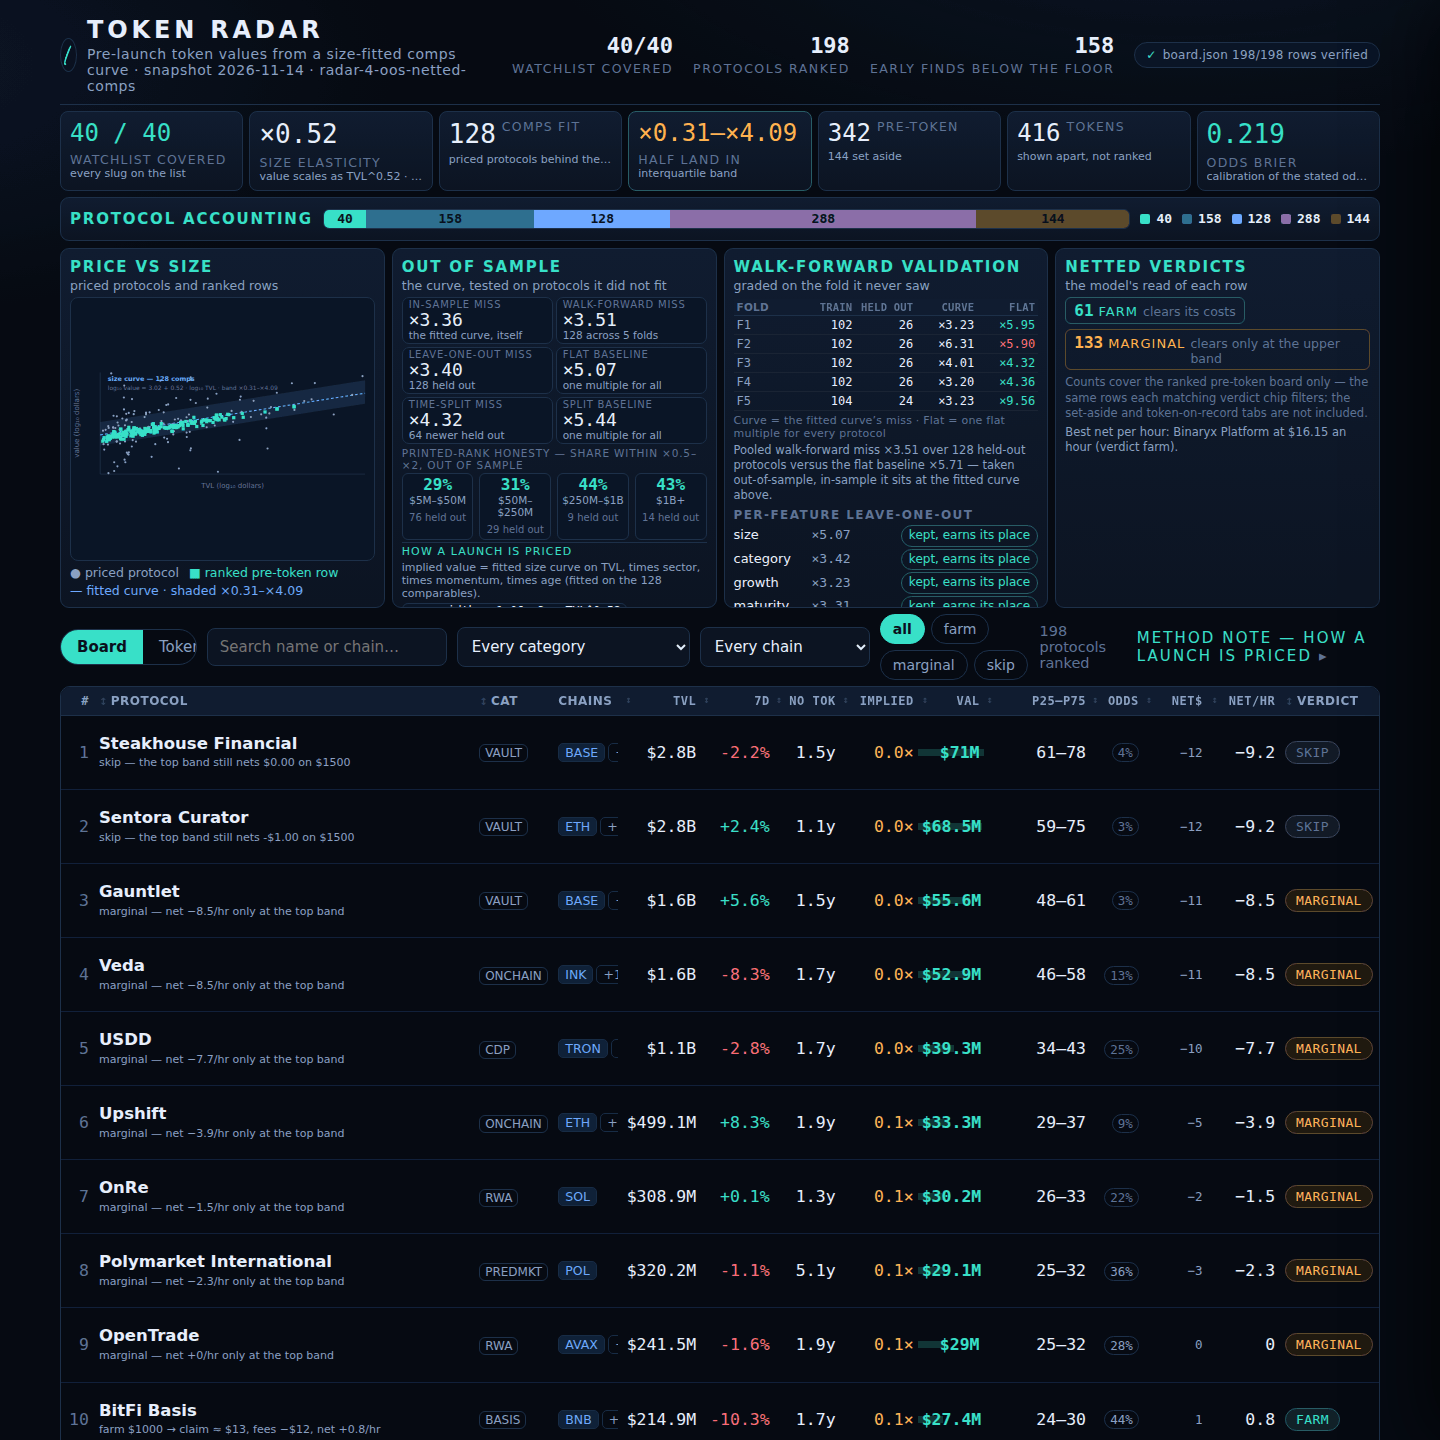
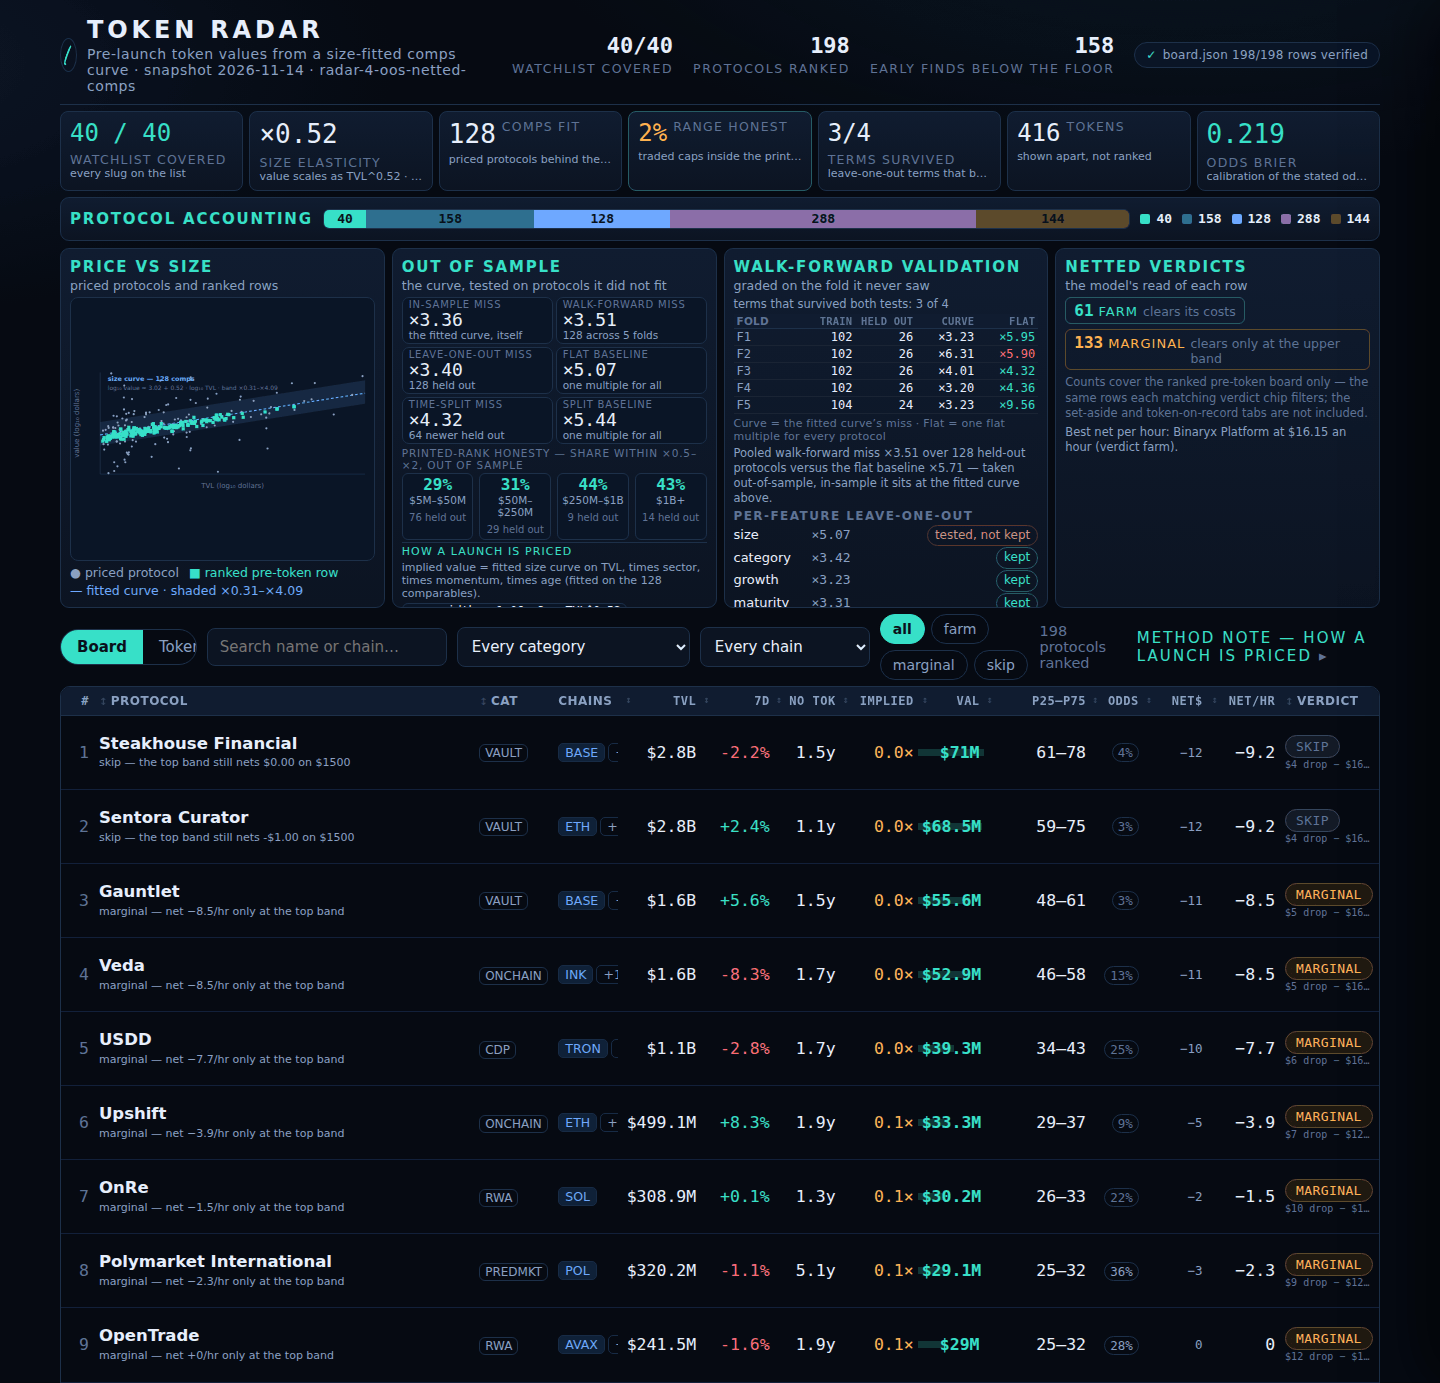
fix21: per-term kept/tested-not-kept badges, range-honesty line, verdict fee sub-lines, 2 KPI swaps (salvaged from codex timeout, full verify green)

Changed region(s): [[0.0312, 0.0, 0.9688, 1.0], [0.0625, 0.2487, 0.25, 0.342]]

diff --git a/dashboard/app.js b/dashboard/app.js
@@ -62,6 +62,18 @@
     var sX = trimZeroX(Math.abs(nX));
     return (nX < 0 ? '\u2212' : '') + sX;
   }
+  // The VERDICT cell's fee arithmetic, worked from the row's own netting numbers: the modelled airdrop drop
+  // (`alloc_usd`) minus the fees the plan pays (`est_gas_usd`), which together are exactly what nets to
+  // `net_usd`. Rounded whole dollars keep it short enough to sit under the badge; a row missing either figure
+  // returns null so the cell prints the badge alone rather than a half-stated subtraction.
+  function feeLineX(rX) {
+    var dropX = rX.alloc_usd, feesX = rX.est_gas_usd;
+    if (dropX === null || dropX === undefined || !isFinite(dropX)) return null;
+    if (feesX === null || feesX === undefined || !isFinite(feesX)) return null;
+    var dropTxtX = '$' + Math.round(dropX).toLocaleString('en-US');
+    var feeTxtX = '$' + Math.round(feesX).toLocaleString('en-US');
+    return dropTxtX + ' drop \u2212 ' + feeTxtX + ' fees';
+  } // c
   // Board TVL: the same magnitude ladder as fmtShortUsdX, so a headline size reads whole in a narrow column.
   function fmtBoardUsd(nX) { return fmtShortUsdX(nX); }
   // A one-place percentage for the board's seven-day growth cell, so "+24.1%" never collapses to "+24.1...".
@@ -276,12 +288,18 @@
   function kpis() {
     var pX = DATAX.pre_token_size, liveX = DATAX.live_size, aside = DATAX.set_aside_size;
     var fitX = 'TVL^' + FITX.elasticity.toFixed(2);
+    // Two cards read straight off the evidence the panels below compute: the share of traded caps that land
+    // inside the model's printed P25–P75 band, and the leave-one-out terms that survived their own test. Cards
+    // keep their slot, size and styling — only the figure and its caption change — so the strip is unchanged.
+    var honorX = rangeHonestyStatsX();
+    var survivedX = termsSurvivedX();
+    var rangeHonestX = honorX && honorX.withinBand !== null ? honorX.withinBand.toFixed(0) + '%' : '—';
     return h('section', { class: 'kpis' },
       kpi(DATAX.watchlist_size + ' / ' + DATAX.watchlist_size, 'watchlist covered', 'every slug on the list', 'ok'),
       kpi('\u00d7' + FITX.elasticity.toFixed(2), 'size elasticity', 'value scales as TVL^' + FITX.elasticity.toFixed(2) + ' \u00b7 held-out miss \u00d7' + (FITX.median_abs_error || 0).toFixed(2), '', true),
       kpi(FITX.comparables, 'comps fit', 'priced protocols behind the curve \u00b7 graded out of sample', '', true),
-      kpi('×' + FITX.err_lo.toFixed(2) + '–×' + FITX.err_hi.toFixed(2), 'half land in', 'interquartile band', 'accent'),
-      kpi(pX, 'pre-token', aside + ' set aside', ''),
+      kpi(rangeHonestX, 'RANGE HONEST', 'traded caps inside the printed P25–P75 band', 'accent'),
+      kpi(survivedX.kept + '/' + survivedX.count, 'TERMS SURVIVED', 'leave-one-out terms that beat their baseline', ''),
       kpi(liveX, 'tokens', 'shown apart, not ranked', ''),
       oddsKpi());
   } // c
@@ -347,6 +365,19 @@
   // Walk-forward panel: five sequential folds the curve never trained on, each graded against a flat
   // multiple, then a per-feature leave-one-out table. A feature is called out as "tested, not kept" when
   // dropping it does not worsen the held-out miss, i.e. it earns nothing.
+  // The term tally is one shared rule for the whole panel: each leave-one-out term is put through both
+  // anchored tests this panel prints — the fitted curve's pooled miss and the flat baseline — and a term is
+  // kept only when its dropped miss is no worse than either. Both anchors are read off the walk-forward
+  // numbers themselves, never retyped, and the surviving count feeds the panel sub-line and the KPI card.
+  function termsSurvivedX() {
+    var wX = FITX.walk_forward || {};
+    var fullX = wX.miss || 0, flatX = wX.flat_miss || 0;
+    var termsX = (FITX.feature_loo || []).map(function (fX) {
+      return { feature: fX.feature, miss: fX.miss, kept: fX.miss <= fullX + 1e-9 && fX.miss <= flatX + 1e-9 };
+    });
+    var keptX = termsX.filter(function (tX) { return tX.kept; }).length;
+    return { terms: termsX, kept: keptX, count: termsX.length };
+  } // c
   function walkCard() {
     var wX = FITX.walk_forward || { folds: [], miss: 0, flat_miss: 0, tested: 0 };
     var rowsX = (wX.folds || []).map(function (fX) {
@@ -359,13 +390,18 @@
     });
     var headX = h('tr', null, h('th', null, 'Fold'), h('th', { class: 'num' }, 'Train'), h('th', { class: 'num' }, 'Held out'),
       h('th', { class: 'num' }, 'Curve'), h('th', { class: 'num' }, 'Flat'));
-    var looX = (FITX.feature_loo || []).map(function (fX) {
+    // Each term row carries its own verdict from the shared rule above: a term is badged "kept" only when
+    // its leave-one-out miss clears both anchored misses the panel prints (the fitted curve's pooled miss and
+    // the flat baseline); otherwise it is "tested, not kept". The same terms back the sub-line and the tally.
+    var survivedX = termsSurvivedX();
+    var looX = survivedX.terms.map(function (tX) {
       return h('div', { class: 'loo-row' },
-        h('span', { class: 'loo-name' }, fX.feature),
-        h('span', { class: 'loo-miss' }, '×' + fX.miss.toFixed(2)),
-        h('span', { class: 'badge ' + (fX.kept ? 'kept' : 'dropped') }, fX.kept ? 'kept, earns its place' : 'tested, not kept'));
+        h('span', { class: 'loo-name' }, tX.feature),
+        h('span', { class: 'loo-miss' }, '×' + tX.miss.toFixed(2)),
+        h('span', { class: 'badge ' + (tX.kept ? 'kept' : 'dropped') }, tX.kept ? 'kept' : 'tested, not kept'));
     });
     return card('Walk-forward validation', 'graded on the fold it never saw',
+      h('p', { class: 'loo-survived' }, 'terms that survived both tests: ' + survivedX.kept + ' of ' + survivedX.count),
       h('div', null,
         h('table', { class: 'walk' }, h('thead', null, headX), h('tbody', null, rowsX)),
         h('div', { class: 'walk-legend' }, 'Curve = the fitted curve\u2019s miss \u00b7 Flat = one flat multiple for every protocol')),
@@ -395,7 +431,10 @@
     x0X -= xpadX; x1 += xpadX; y0 -= ypadX; y1 += ypadX;
     var sxX = function (v) { return padL + (v - x0X) / (x1 - x0X) * (WX - padL - padR); };
     var syX = function (v) { return H - padB - (v - y0) / (y1 - y0) * (H - padT - padB); };
-    var sX = svg('svg', { viewBox: '0 0 ' + WX + ' ' + H, width: '100%', height: 'auto', role: 'img', 'aria-label': 'log-log scatter of market cap versus TVL with the fitted curve' });
+    // No height attribute: an SVG viewport does not accept "auto" and the browser flags it, while the CSS
+    // (.scatter-wrap svg { height: 100% }) already stretches the plot to its frame — so dropping it is a
+    // pixel-for-pixel no-op that clears the one console warning the page used to raise.
+    var sX = svg('svg', { viewBox: '0 0 ' + WX + ' ' + H, width: '100%', role: 'img', 'aria-label': 'log-log scatter of market cap versus TVL with the fitted curve' });
     // axes
     sX.appendChild(svg('line', { x1: padL, y1: H - padB, x2: WX - padR, y2: H - padB, stroke: '#2a3f5c', 'stroke-width': 1 }));
     sX.appendChild(svg('line', { x1: padL, y1: padT, x2: padL, y2: H - padB, stroke: '#2a3f5c', 'stroke-width': 1 }));
@@ -437,6 +476,7 @@
     var oX = (FITX.out_of_sample) || {};
     var wX = (FITX.walk_forward) || {};
     var beatsX = (oX.miss_median || 0) < (oX.flat_miss_median || 0) && (oX.split_miss || 0) < (oX.split_flat_miss || 0);
+    var honestX = rangeHonestyX();
     return card('Out of sample', 'the curve, tested on protocols it did not fit',
       h('div', { class: 'oos-grid' },
         oosItem('in-sample miss', '×' + (FITX.median_abs_error || 0).toFixed(2), 'the fitted curve, itself'),
@@ -447,10 +487,48 @@
         oosItem('split baseline', '×' + (oX.split_flat_miss || 0).toFixed(2), 'one multiple for all')),
       calStrip(),
       methodStripX(),
+      honestX ? h('p', { class: 'range-honest' }, 'printed range honest: ' + honestX) : null,
       h('p', { class: 'note' }, beatsX
         ? 'Out of sample the fitted curve misses by a smaller factor than valuing every protocol at one flat multiple — the size curve carries signal beyond ordering by TVL.'
         : 'Out of sample the fitted curve does not beat a single flat multiple — treat the ranking as a framework, not a forecast.'));
   }
+
+  // The raw counts behind the range-honesty line: how many traded tokens carry a cap to test, how many land
+  // within 3x of the model's implied value (P), how many land inside the printed P25–P75 band (Q), and the
+  // band multipliers themselves read off the ranked rows. Returns null when nothing can be divided by.
+  function rangeHonestyStatsX() {
+    var nX = 0, in3X = 0, inBandX = 0, bandX = null;
+    (DATAX.rows || []).some(function (rX) {
+      if (rX.implied_value_usd > 0 && rX.band_p25_usd !== undefined && rX.band_p75_usd !== undefined) {
+        bandX = { lo: rX.band_p25_usd / rX.implied_value_usd, hi: rX.band_p75_usd / rX.implied_value_usd };
+        return true;
+      }
+      return false;
+    });
+    (DATAX.live || []).forEach(function (lX) {
+      if (!(lX.mcap_usd > 0) || !(lX.tvl_usd > 0)) return;
+      var impliedX = impliedOf(lX);
+      if (!(impliedX > 0)) return;
+      var ratioX = lX.mcap_usd / impliedX;
+      nX++;
+      if (ratioX >= 1 / 3 && ratioX <= 3) in3X++;
+      if (bandX && ratioX >= bandX.lo && ratioX <= bandX.hi) inBandX++;
+    });
+    if (nX === 0) return null;
+    return { n: nX, within3: in3X / nX * 100, withinBand: bandX ? inBandX / nX * 100 : null };
+  } // c
+  // The range-honesty sentence under the out-of-sample miss lines: over the protocols that already trade,
+  // compare each market cap with the value this page's own formula would print for it — the within-3x share
+  // (P) and the share landing inside the printed P25–P75 band (Q). Both are read off the loaded board (each
+  // token's cap and TVL, plus the band multipliers the ranked rows themselves carry); a share that cannot be
+  // computed is dropped rather than guessed, so the line states only what the data supports.
+  function rangeHonestyX() {
+    var sX = rangeHonestyStatsX();
+    if (!sX) return null;
+    var partsX = [sX.within3.toFixed(0) + '% within ×3'];
+    if (sX.withinBand !== null) partsX.push(sX.withinBand.toFixed(0) + '% within P25–P75');
+    return partsX.join(', ');
+  } // c
 
   // Is the printed rank honest? For each TVL tier, the out-of-sample share of priced protocols whose value
   // the curve lands within a factor of two of. Compact strip of percentages.
@@ -656,7 +734,13 @@
         cellsX.push(h('td', { class: 'num odds' }, rX.token_odds === undefined ? '—' : h('span', { class: 'odds-pill odds-' + oddsBand(rX.token_odds) }, (rX.token_odds * 100).toFixed(0) + '%')));
         cellsX.push(h('td', { class: 'num netline' }, rX.net_usd === undefined ? '—' : fmtNetX(rX.net_usd)));
         cellsX.push(h('td', { class: 'num' }, rX.net_per_hour === undefined ? '—' : fmtNetRateX(rX.net_per_hour)));
-        cellsX.push(h('td', null, rX.verdict === undefined ? '—' : h('span', { class: 'badge verdict-' + rX.verdict }, rX.verdict)));
+        // The verdict badge, then one small muted line stating its fee arithmetic: the drop the plan models
+        // minus the fees it pays. Both figures come off the row itself; a row carrying no fee figures prints
+        // the badge alone, and the line is small enough to ride inside the cell without changing its height.
+        var feeX = feeLineX(rX);
+        cellsX.push(h('td', null, rX.verdict === undefined ? '—' : h('div', { class: 'verdict-cell' },
+          h('span', { class: 'badge verdict-' + rX.verdict }, rX.verdict),
+          feeX ? h('span', { class: 'fee-line' }, feeX) : null)));
       }
       return h('tr', { class: stateX.selected && stateX.selected.slug === rX.slug ? 'sel' : '', onclick: function () { stateX.selected = rX; paint(); openDrawer(); } }, cellsX);
     });

diff --git a/dashboard/app.css b/dashboard/app.css
@@ -144,6 +144,7 @@ footer { margin-top: calc(var(--u) * 4); color: var(--dim); font-size: 13.5px; b
 .card-head h3 { margin: 0; font-size: 15px; letter-spacing: .12em; text-transform: uppercase; color: var(--accent); overflow-wrap: normal; word-break: normal; hyphens: none; } /* card header text — wraps between whole words ("OUT OF" / "SAMPLE"), never cutting one in half */
 .card-sub { color: var(--muted); font-size: 12.5px; margin-top: 2px; line-height: 1.25; white-space: normal; overflow-wrap: normal; word-break: normal; } /* card subheading — wraps between whole words rather than clipping one mid-word */
 .card .note { color: var(--muted); font-size: 11.5px; line-height: 1.3; margin: 3px 0 0; } /* card note */
+.range-honest { color: var(--dim); font-size: 11.5px; line-height: 1.3; margin: 3px 0 0; } /* printed-range honesty sub-line — small type, sits under the miss strip without growing the fixed-height panel */
 
 /* Lifecycle stacked bar — one full-width band with a small key beneath. The first card spans the whole row. */
 .acct-card { grid-column: 1 / -1; padding: calc(var(--u) * .5) calc(var(--u) * 1.125); } /* full-width accounting strip */
@@ -174,19 +175,20 @@ footer { margin-top: calc(var(--u) * 4); color: var(--dim); font-size: 13.5px; b
 
 /* Walk-forward fold table and the per-feature leave-one-out strip. */
 .walk { width: 100%; table-layout: fixed; border-collapse: collapse; font-size: 12px; margin-top: 2px; } /* fold grid — fixed layout so all five columns stay inside the card */
-.walk th { text-align: right; padding: 2px 3px; color: var(--dim); font-size: 10.5px; text-transform: uppercase; letter-spacing: .02em; border-bottom: 1px solid var(--line); white-space: nowrap; overflow: hidden; text-overflow: ellipsis; } /* fold head */
+.walk th { text-align: right; padding: 1px 3px; color: var(--dim); font-size: 10.5px; text-transform: uppercase; letter-spacing: .02em; border-bottom: 1px solid var(--line); white-space: nowrap; overflow: hidden; text-overflow: ellipsis; } /* fold head — 1px row padding returns the few px the survived sub-line needs, keeping the last term row inside the fixed panel */
 .walk th:first-child { text-align: left; } /* fold label column */
-.walk td { padding: 2px 3px; text-align: right; font-family: var(--mono); font-variant-numeric: tabular-nums; font-size: 12px; border-bottom: 1px solid #ffffff0d; white-space: nowrap; overflow: hidden; text-overflow: ellipsis; } /* fold cell */
+.walk td { padding: 1px 3px; text-align: right; font-family: var(--mono); font-variant-numeric: tabular-nums; font-size: 12px; border-bottom: 1px solid #ffffff0d; white-space: nowrap; overflow: hidden; text-overflow: ellipsis; } /* fold cell — trimmed row padding, matches the head so the fold grid stays compact */
 .walk td:first-child { text-align: left; color: var(--muted); } /* fold number */
 .walk-legend { color: var(--dim); font-size: 11px; letter-spacing: .02em; margin-top: 3px; } /* fold legend for the abbreviated heads */
-.loose-head { font-size: 12px; text-transform: uppercase; letter-spacing: .12em; color: var(--dim); margin: calc(var(--u) * .625) 0 calc(var(--u) * .375); } /* loo heading */
-.loo { display: flex; flex-direction: column; gap: 2px; } /* loo list */
+.loo-survived { color: var(--muted); font-size: 11.5px; line-height: 1.2; margin: 1px 0 0; } /* panel sub-line — small type so it sits under the header without growing the fixed-height card */
+.loose-head { font-size: 12px; text-transform: uppercase; letter-spacing: .12em; color: var(--dim); margin: calc(var(--u) * .375) 0 calc(var(--u) * .25); } /* loo heading — tightened so the trim below the fold grid and above the term rows stays short */
+.loo { display: flex; flex-direction: column; gap: 1px; } /* loo list */
 .loo-row { display: flex; align-items: center; gap: 8px; font-size: 13px; line-height: 1.3; } /* loo row */
 .loo-name { color: var(--ink); min-width: 70px; } /* feature name */
 .loo-miss { font-family: var(--mono); color: var(--muted); } /* dropped miss */
 .badge { margin-left: auto; font-size: 12px; padding: 2px 7px; border-radius: 999px; border: 1px solid var(--line); } /* result badge */
 .badge.kept { color: var(--accent); border-color: #2b5c66; } /* kept feature */
-.badge.dropped { color: var(--warn); border-color: #5c4a2b; } /* discarded feature */
+.badge.dropped { color: #d98a92; border-color: #5c333b; } /* tested-but-not-kept term — muted red, distinct from the amber warn tint */
 
 /* Calibration strip: a row of compact percentage cells, one per TVL tier. */
 .calstrip { margin-top: 3px; } /* wrapper */
@@ -239,6 +241,11 @@ footer { margin-top: calc(var(--u) * 4); color: var(--dim); font-size: 13.5px; b
 .badge.verdict-farm { display: inline-block; margin-left: 0; font-family: var(--mono); font-size: 13px; letter-spacing: .03em; text-transform: uppercase; white-space: nowrap; color: var(--accent); border: 1px solid #2b5c66; background: #10202b; padding: 3px 10px; } /* farm badge */
 .badge.verdict-marginal { display: inline-block; margin-left: 0; font-family: var(--mono); font-size: 13px; letter-spacing: .03em; text-transform: uppercase; white-space: nowrap; color: var(--warn); border: 1px solid #5c4a2b; background: #201a10; padding: 3px 10px; } /* marginal badge */
 .badge.verdict-skip { display: inline-block; margin-left: 0; font-family: var(--mono); font-size: 13px; letter-spacing: .03em; text-transform: uppercase; white-space: nowrap; color: var(--dim); border: 1px solid #3a465c; background: #131a26; padding: 3px 10px; } /* skip badge */
+/* The verdict cell stacks its badge over one small fee line. The stack stays inside the two-line row height
+   the name cell already sets, so the column's height never changes; the fee line clips at the cell edge
+   rather than widening the column or pushing the badge off-centre. */
+.verdict-cell { display: flex; flex-direction: column; align-items: flex-start; gap: 1px; min-width: 0; }
+.fee-line { font-family: var(--mono); font-size: 10px; line-height: 1.1; color: var(--dim); white-space: nowrap; overflow: hidden; text-overflow: ellipsis; max-width: 100%; } /* fee arithmetic — small and muted so it rides under the badge */
 
 /* Verdict filter chips — subdued bordered toggles; the active one reads like the active tab. */
 .verdict-chips { display: inline-flex; flex-wrap: wrap; gap: 6px; } /* chip row */
